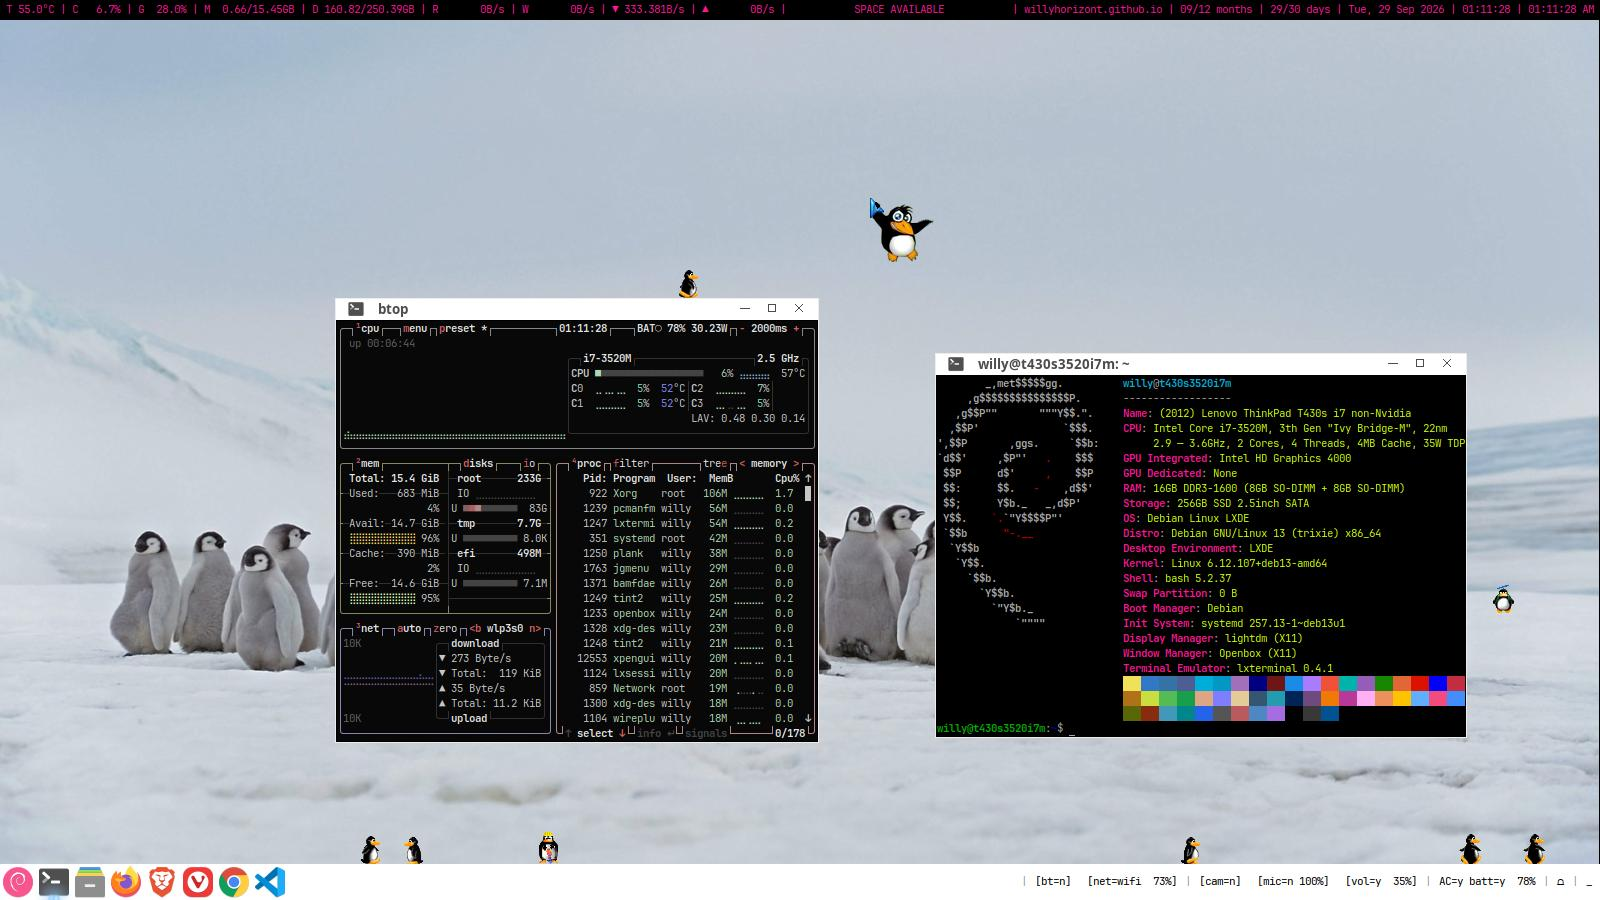
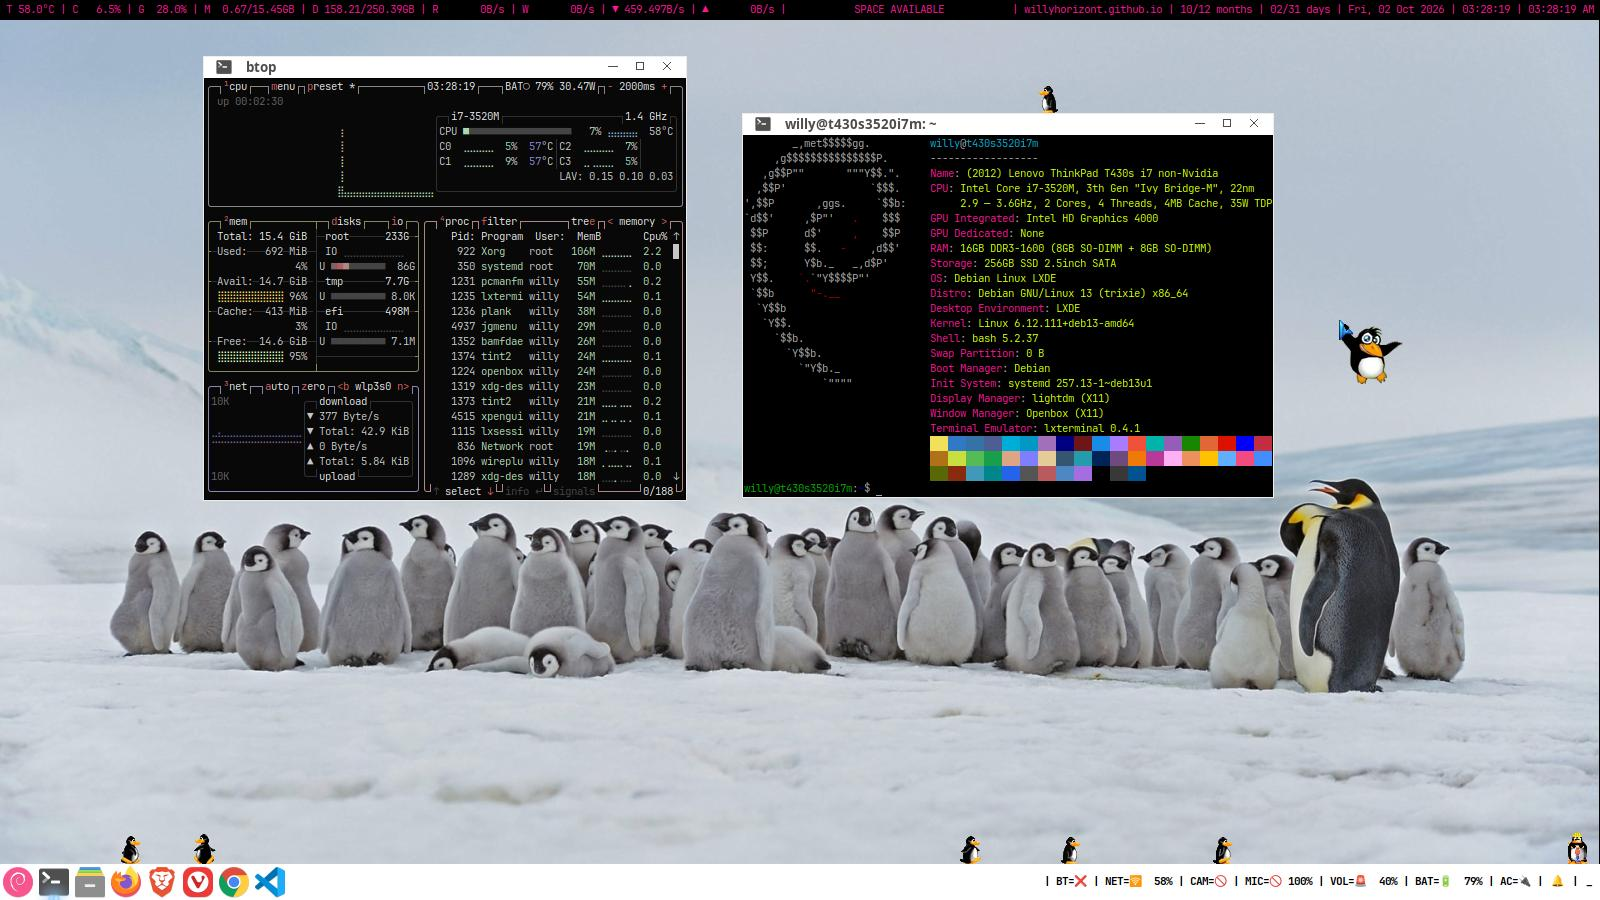
[Last updated: 02 Oct 2026 @ 02:51 PM][version: 0.3.0] update install.sh; update and fix restart-desktop.sh; fix start-desktop.sh; update sync.sh; update README.md, add Disable Camera Startup, add Customize Display Manager; update tint2-bottom-panel, fix tooltip, change static tooltip to dinamic too

diff --git a/README.md b/README.md
@@ -7,7 +7,7 @@
 sudo mkdir -p /etc/X11/xorg.conf.d && echo -e 'Section "InputClass"\n    Identifier "touchpad catchall"\n    MatchIsTouchpad "on"\n    MatchDevicePath "/dev/input/event*"\n    Driver "libinput"\n    Option "NaturalScrolling" "true"\n    Option "Tapping" "on"\nEndSection' | sudo tee /etc/X11/xorg.conf.d/30-touchpad.conf
 ```
 
-## Disable Mouse Acceleration
+## Disable Screen Blank
 ```
 sudo mkdir -p /etc/X11/xorg.conf.d/ && sudo tee /etc/X11/xorg.conf.d/10-monitor.conf << 'EOF'
 Section "Monitor"
@@ -23,7 +23,10 @@ Section "ServerFlags"
     Option "NoPM" "true"
 EndSection
 EOF
+```
 
+## Disable Mouse Acceleration
+```
 sudo tee /etc/X11/xorg.conf.d/50-mouse-acceleration.conf << 'EOF'
 Section "InputClass"
     Identifier "My Pointer Acceleration Override"
@@ -32,6 +35,11 @@ Section "InputClass"
     Option "AccelProfile" "flat"
 EndSection
 EOF
+```
+
+## Disable Camera Startup
+```
+echo "blacklist uvcvideo" | sudo tee /etc/modprobe.d/block-camera.conf
 ```
 
 ## Do [linux > post-install > general.md > A](https://github.com/willyhorizont/linux/blob/main/post-install/general.md#a)
@@ -58,13 +66,13 @@ sudo apt install -y blueman
 
 # Panel
 sudo apt install -y \
+    xdotool \
     picom \ # or xcompmgr
     tint2 \
     plank \
     jgmenu \
     power-profiles-daemon \
     acpi \
-    xdotool \
     dunst \
     libnotify-bin \
     ""
@@ -380,20 +388,24 @@ BottomPadding=0
 LaunchBounceTime=0
 ```
 
-## Change lock screen
+## Customize Display Manager
+```sh
+sudo bash -c '
+TARGET_FILE="/etc/lightdm/lightdm-gtk-greeter.conf"
+
+# hide user image
+if grep -q "#hide-user-image=" "$TARGET_FILE"; then sed -i "s|#hide-user-image=|#hide-user-image=\nhide-user-image=true|g" "$TARGET_FILE"; else sed -i "\$a hide-user-image=true" "$TARGET_FILE"; fi
+
+# change indicator order
+sed -i "s|#indicators=|#indicators=\nindicators=~host;~spacer;~clock;~spacer;~session;~power|g" "$TARGET_FILE"
+
+# change clock format
+sed -i "s|#clock-format=|#clock-format=\nclock-format=%a, %d %b %Y \| %I:%M:%S %p|g" "$TARGET_FILE"
+'
 ```
-## install lock screen settings
-sudo apt install -y lightdm-gtk-greeter-settings
 
-## copy image to:
-/usr/share/images/
-
-## change lock screen clock format to:
-%a, %d %b %Y | %I:%M:%S %p
-
-## remove lock screen settings
-sudo apt purge -y lightdm-gtk-greeter-settings && sudo apt autoremove -y --purge
-```
+## Restart Display Manager
+```sudo systemctl restart lightdm```
 
 ## Adjust default terminal:
 ```
